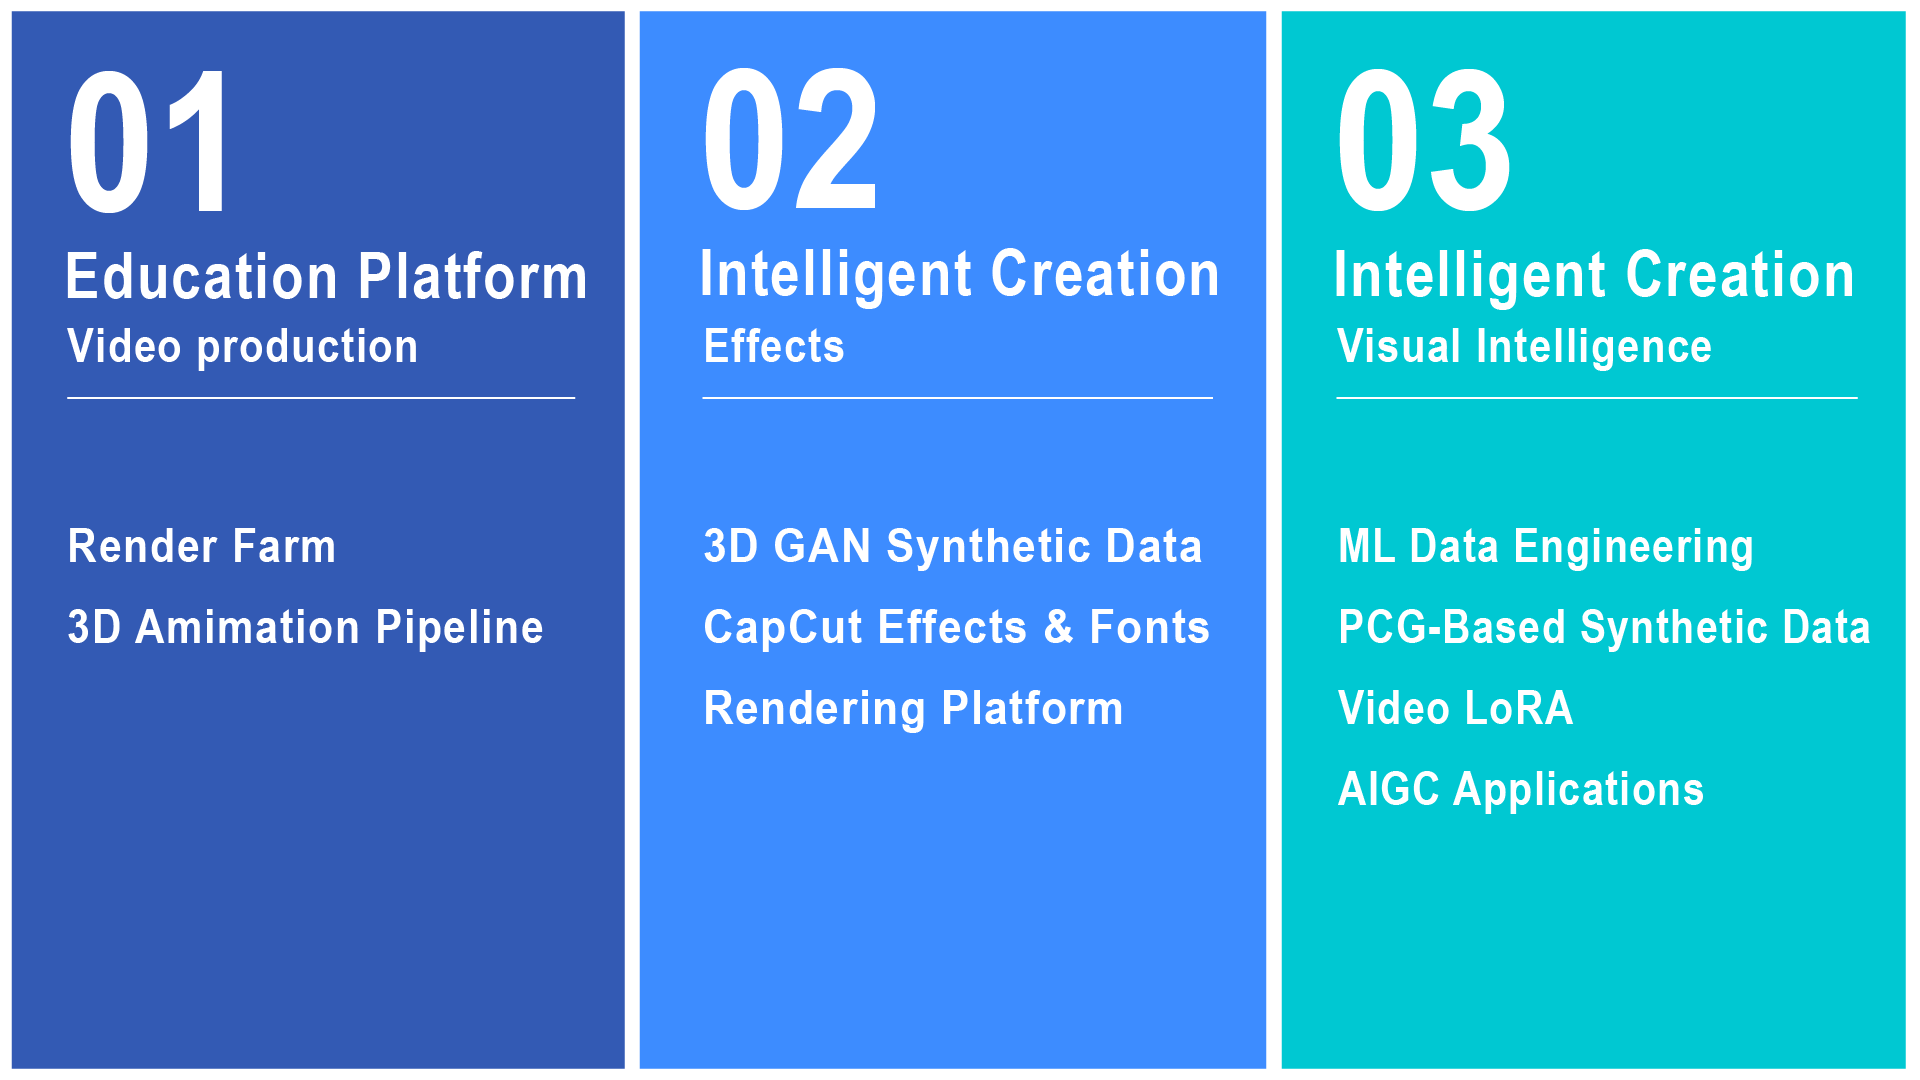
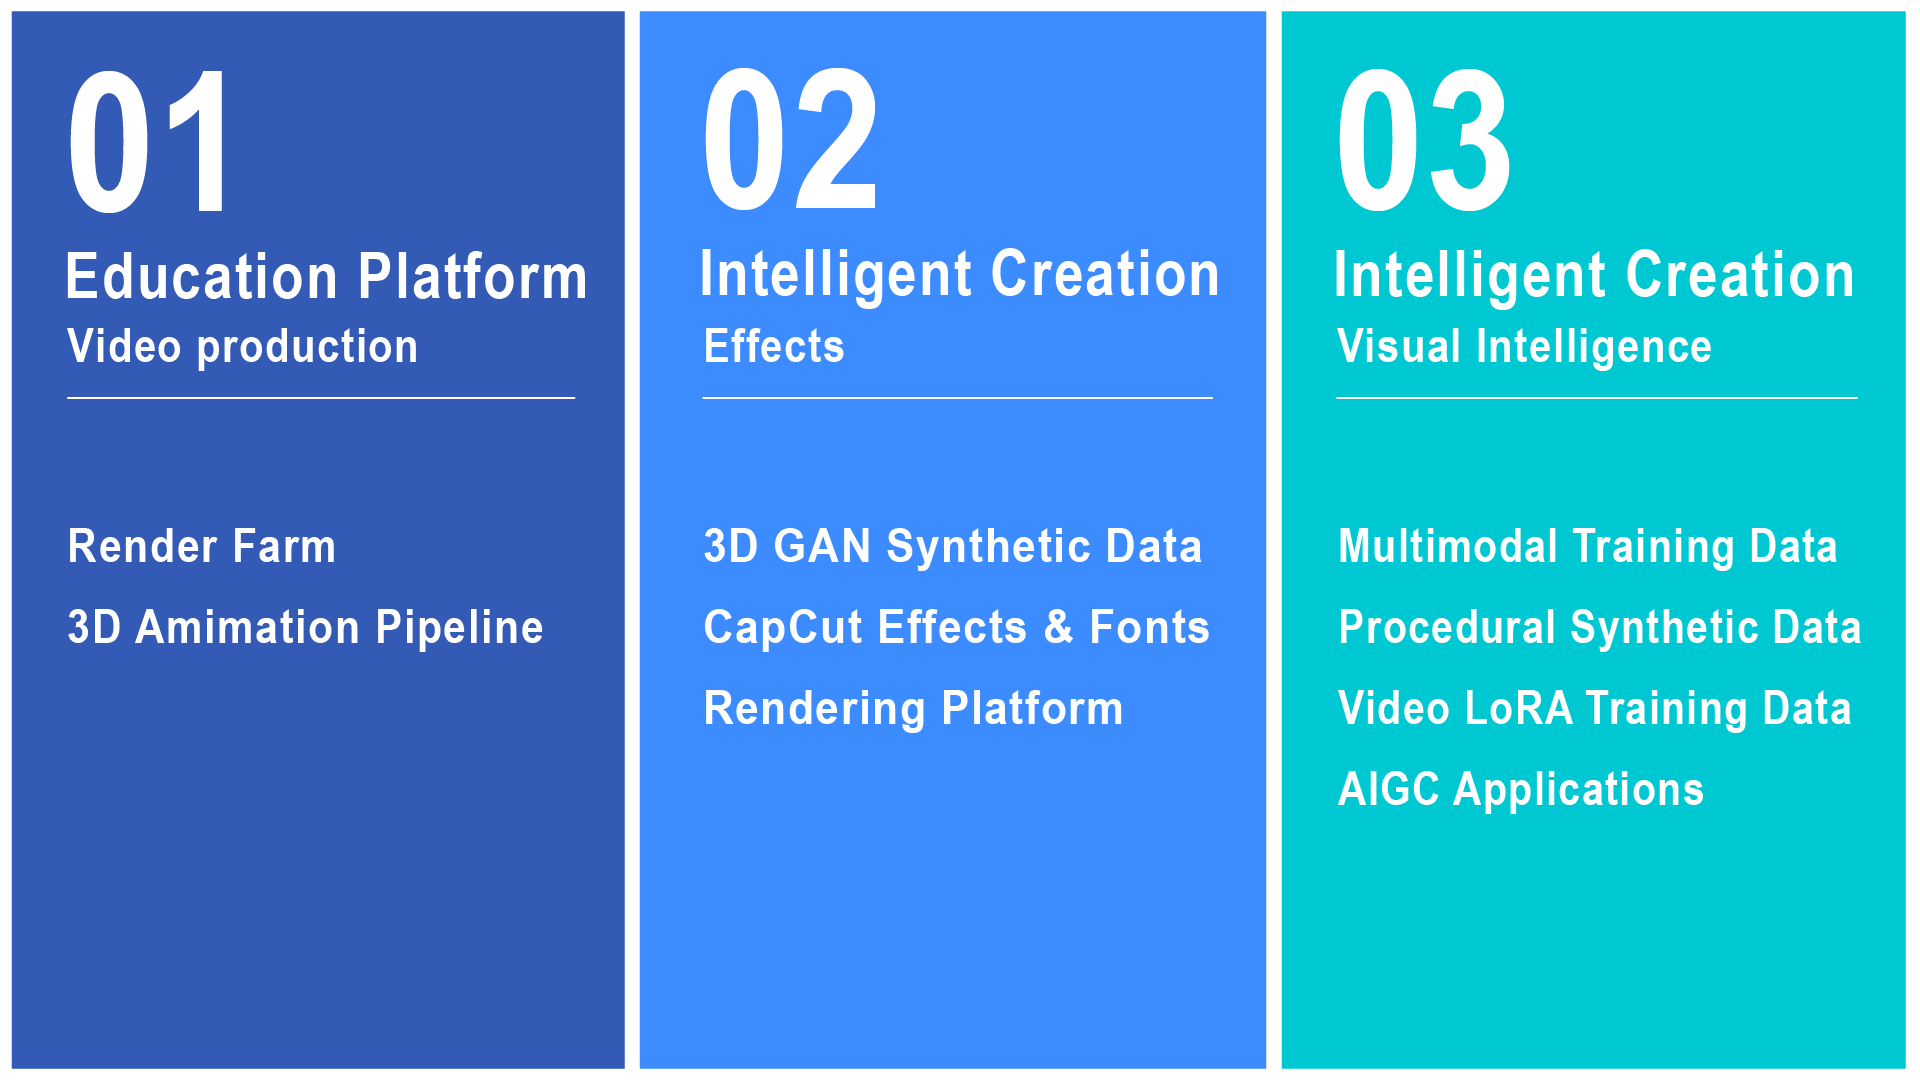
update

Changed region(s): [[0.7188, 0.4889, 0.9688, 0.6111], [0.8125, 0.6417, 0.9688, 0.6722]]

diff --git a/index.html b/index.html
@@ -3,8 +3,8 @@
 <head>
     <meta charset="UTF-8">
     <meta name="viewport" content="width=device-width, initial-scale=1.0">
-    <title>Junjie Luo | Synthetic Data &amp; ML Data Engineer</title>
-    <meta name="description" content="Junjie Luo focuses on synthetic data and machine learning data engineering for generative video, with a long-term interest in world models.">
+    <title>Junjie Luo | Synthetic Data &amp; Multimodal Data Engineer</title>
+    <meta name="description" content="Junjie Luo focuses on synthetic data and multimodal data engineering for video generation models, with a long-term interest in world models.">
     <style>
         :root {
             --paper: #ffffff;
@@ -702,7 +702,7 @@
 
             <div class="hero-meta">
                 <h1>Junjie Luo <span class="cn">罗俊杰</span></h1>
-                <div class="title">Synthetic Data &amp; ML Data Engineer</div>
+                <div class="title">Synthetic Data &amp; Multimodal Data Engineer</div>
                 <div class="institution">Intelligent Creation Team, ByteDance · Beijing</div>
 
                 <div class="contact-row">
@@ -745,7 +745,7 @@
                             <h3>Multimodal Training Dataset Construction for Video Generation Models</h3>
                             <div class="meta">current work</div>
                             <p>
-                                My current work focuses less on rendering itself and more on machine learning data: sourcing public data, selecting and clustering samples, VLM-based cleaning, pairing, operator processing, and dataset delivery. 
+                                My current work focuses less on rendering itself and more on multimodal training data: sourcing public data, selecting and clustering samples, VLM-based cleaning, pairing, operator processing, and dataset delivery. 
                             </p>
                         </div>
                     </article>
@@ -833,9 +833,9 @@
                         </div>
                         <div>
                             <div class="journey-time">2020 - Present</div>
-                            <h3>ByteDance · Synthetic Data &amp; ML Data Engineer</h3>
+                            <h3>ByteDance · Synthetic Data &amp; Multimodal Data Engineer</h3>
                             <p>
-                                At ByteDance, my work spans rendering-platform infrastructure, Houdini-based procedural synthetic data generation, and ML data engineering: building rendering systems for 3D animation production, supporting 3D GAN with synthetic data, supporting AIGC applications, producing rendering data for video LoRA training, and curating training datasets for video generation models.
+                                At ByteDance, my work spans rendering-platform infrastructure, Houdini-based procedural synthetic data generation, and multimodal data engineering: building rendering systems for 3D animation production, supporting 3D GAN with synthetic data, supporting AIGC applications, producing rendering data for video LoRA training, and curating training datasets for video generation models.
                             </p>
                         </div>
                     </div>
